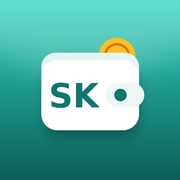
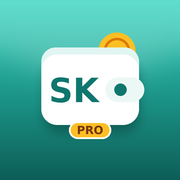
Add files via upload

diff --git a/index.html b/index.html
@@ -3,13 +3,13 @@
 <head>
 <meta charset="utf-8">
 <meta name="viewport" content="width=device-width, initial-scale=1, viewport-fit=cover">
-<title>SK Money Book</title>
+<title>SK Money Book Pro</title>
 <meta name="theme-color" content="#0f766e">
 <link rel="manifest" href="manifest.json">
 <link rel="apple-touch-icon" href="apple-touch-icon.png">
 <meta name="apple-mobile-web-app-capable" content="yes">
 <meta name="mobile-web-app-capable" content="yes">
-<meta name="apple-mobile-web-app-title" content="SK Money Book">
+<meta name="apple-mobile-web-app-title" content="SK Money Book Pro">
 <style>
 :root{
   --bg:#f4f6f5;--card:#ffffff;--text:#16211f;--muted:#64716e;--line:#e2e7e5;
@@ -24,6 +24,7 @@
 html,body{margin:0;background:var(--bg);color:var(--text);font:15px/1.4 system-ui,-apple-system,"Segoe UI",Roboto,"Noto Sans Bengali",sans-serif}
 header{position:sticky;top:0;z-index:5;background:var(--brand);color:#fff;padding:calc(12px + env(safe-area-inset-top)) 16px 12px;display:flex;align-items:center;gap:10px}
 header h1{font-size:18px;margin:0;flex:1;white-space:nowrap;overflow:hidden;text-overflow:ellipsis}
+.pro{display:inline-block;vertical-align:middle;margin-left:6px;padding:2px 8px;border-radius:999px;background:linear-gradient(180deg,#fcd34d,#f59e0b);color:#78350f;font-size:11px;font-weight:800;letter-spacing:.06em;box-shadow:0 1px 2px rgba(0,0,0,.2);position:relative;top:-2px}
 header button{background:rgba(255,255,255,.18);color:#fff;border:0;border-radius:8px;padding:6px 10px;font-size:14px}
 main{padding:14px 16px calc(90px + env(safe-area-inset-bottom));max-width:640px;margin:0 auto}
 nav.tabs{position:fixed;bottom:0;left:0;right:0;background:var(--card);border-top:1px solid var(--line);display:flex;padding-bottom:env(safe-area-inset-bottom);z-index:5}
@@ -118,7 +119,7 @@ th{color:var(--muted);font-weight:600}
 <body>
 <header>
   <button id="backBtn" style="display:none" aria-label="Back">←</button>
-  <h1 id="title">SK Money Book</h1>
+  <h1 id="title">SK Money Book <span class="pro">PRO</span></h1>
   <button id="langBtn">বাংলা</button>
 </header>
 <main id="app"></main>
@@ -237,7 +238,7 @@ function render(){
 /* ---------- DAILY ---------- */
 function inPeriod(d){if(V.period==="all")return true;const td=today();return V.period==="today"?d===td:d.slice(0,7)===td.slice(0,7)}
 function renderDaily(){
-  $("#title").textContent=t("app");
+  $("#title").innerHTML=esc(t("app"))+' <span class="pro">PRO</span>';
   const cur=V.cur||S.defCur;
   const all=S.entries.filter(e=>e.cur===cur);
   const list=all.filter(e=>inPeriod(e.date)).sort((a,b)=>b.date.localeCompare(a.date)||b.id.localeCompare(a.id));

diff --git a/sw.js b/sw.js
@@ -1,4 +1,4 @@
-const CACHE = "skmoneybook-v5";
+const CACHE = "skmoneybook-pro-v7";
 const FILES = ["./", "./index.html", "./manifest.json", "./icon-192.png", "./icon-512.png", "./apple-touch-icon.png"];
 self.addEventListener("install", e => { e.waitUntil(caches.open(CACHE).then(c => c.addAll(FILES))); self.skipWaiting(); });
 self.addEventListener("activate", e => {
